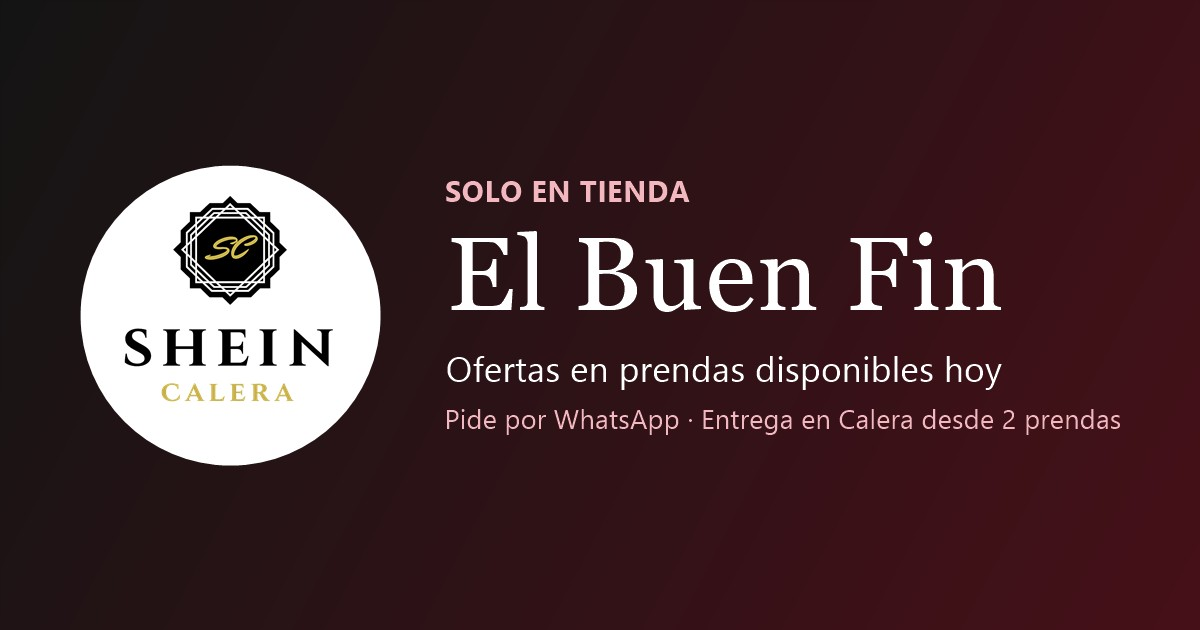
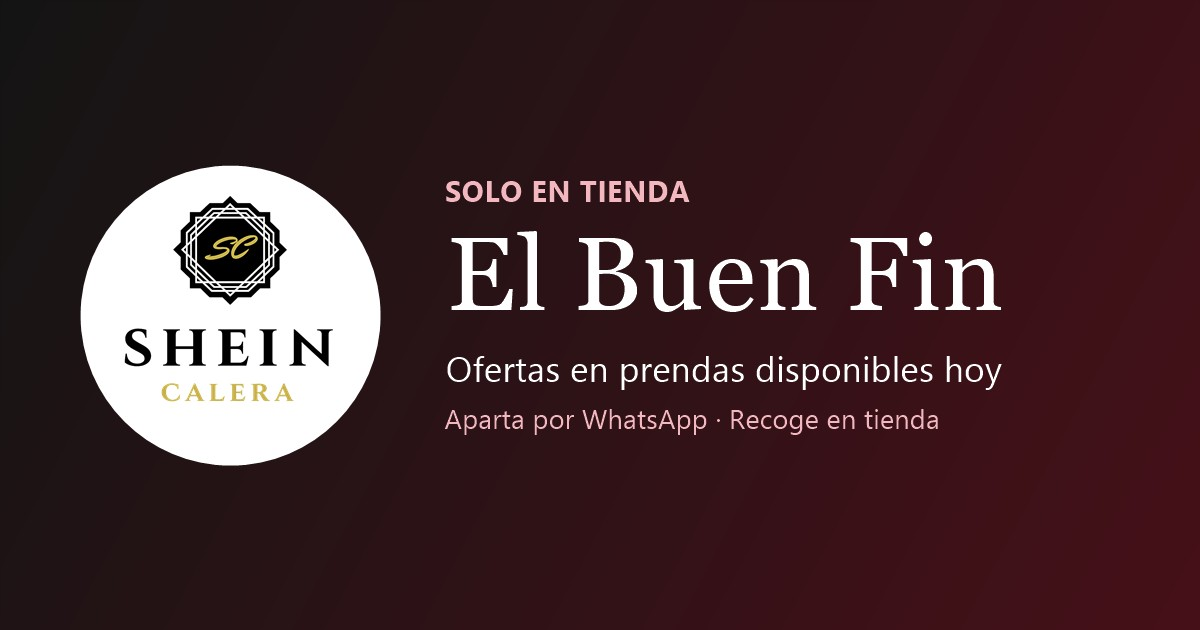
Catálogo 2026-11-13 18:05 (3 archivo(s))

Changed region(s): [[0.37, 0.6333, 0.925, 0.6937]]

diff --git a/index.html b/index.html
@@ -4,7 +4,7 @@
   <meta charset="utf-8">
   <meta name="viewport" content="width=device-width, initial-scale=1, viewport-fit=cover">
   <title>Buen Fin · Ofertas en tienda</title>
-  <meta name="description" content="Ofertas de El Buen Fin en prendas disponibles hoy. Aparta por WhatsApp y recoge en tienda, o recibe en Calera de Víctor Rosales a partir de 2 prendas.">
+  <meta name="description" content="Ofertas de El Buen Fin en prendas disponibles hoy. Aparta por WhatsApp y recoge en tienda.">
   <meta name="theme-color" content="#141414">
 
   <!-- Vista previa al compartir en WhatsApp / Facebook / Instagram. Los rastreadores de las redes
@@ -13,7 +13,7 @@
   <meta property="og:url" content="https://cezar191.github.io/ofertas/">
   <meta property="og:type" content="website">
   <meta property="og:title" content="El Buen Fin · Ofertas en tienda">
-  <meta property="og:description" content="Mira las prendas disponibles y sus ofertas. Pide por WhatsApp. Sin envíos: entrega en tienda o en Calera desde 2 prendas.">
+  <meta property="og:description" content="Mira las prendas disponibles y sus ofertas. Aparta por WhatsApp y recoge en tienda.">
   <meta property="og:image" content="https://cezar191.github.io/ofertas/assets/og.jpg">
   <meta property="og:image:width" content="1200">
   <meta property="og:image:height" content="630">
@@ -81,15 +81,15 @@
     <section class="perks wrap" aria-label="Cómo comprar">
       <div class="perk">
         <svg viewBox="0 0 24 24" aria-hidden="true"><use href="#i-store"/></svg>
-        <div><b>Sin envíos</b><span>Entrega en tienda</span></div>
-      </div>
-      <div class="perk">
-        <svg viewBox="0 0 24 24" aria-hidden="true"><use href="#i-pin"/></svg>
-        <div><b>Entrega en <span data-bind="delivery.area">Calera</span></b><span>a partir de <span data-bind="delivery.min_pieces">2</span> prendas</span></div>
+        <div><b>Solo en tienda física</b><span>Sin envíos ni entregas a domicilio</span></div>
       </div>
       <div class="perk">
         <svg viewBox="0 0 24 24" aria-hidden="true"><use href="#i-wa"/></svg>
         <div><b>Aparta por WhatsApp</b><span>Elige talla y mándanos mensaje</span></div>
+      </div>
+      <div class="perk">
+        <svg viewBox="0 0 24 24" aria-hidden="true"><use href="#i-pin"/></svg>
+        <div><b>Recoge en tienda</b><span data-bind="store.hours">Te esperamos</span></div>
       </div>
     </section>
 
@@ -145,9 +145,9 @@
         <ol class="steps">
           <li><b>Elige</b><span>Toca la prenda y escoge tu talla.</span></li>
           <li><b>Escríbenos</b><span>Mándanos tu bolsa por WhatsApp. Te confirmamos existencia.</span></li>
-          <li><b>Recoge</b><span>En tienda, o te la llevamos en <span data-bind="delivery.area">Calera</span> si son <span data-bind="delivery.min_pieces">2</span> prendas o más.</span></li>
+          <li><b>Recoge</b><span>Pasa por tus prendas a la tienda.</span></li>
         </ol>
-        <p class="fine">No hacemos envíos por paquetería. Precios y existencias se actualizan durante el día; la prenda se aparta cuando te confirmamos por WhatsApp.</p>
+        <p class="fine">Venta solo en tienda física: no hacemos envíos ni entregas a domicilio. Precios y existencias se actualizan durante el día; la prenda se aparta cuando te confirmamos por WhatsApp.</p>
       </div>
     </section>
   </main>
@@ -206,10 +206,8 @@
       </div>
       <div class="bag-items" id="bagItems"></div>
       <div class="bag-foot">
-        <div class="bag-delivery" id="bagDelivery"></div>
         <div class="bag-total"><span>Total</span><b id="bagTotal">$0</b></div>
-        <label class="bag-option"><input type="radio" name="entrega" value="tienda" checked> Recojo en tienda</label>
-        <label class="bag-option" id="optDomicilio"><input type="radio" name="entrega" value="domicilio"> Entrega en <span data-bind="delivery.area">Calera</span></label>
+        <div class="bag-delivery ok">Recoges tus prendas en tienda. No hacemos envíos.</div>
         <a class="btn btn-wa btn-block" id="bagSend" target="_blank" rel="noopener">
           <svg viewBox="0 0 24 24" aria-hidden="true"><use href="#i-wa"/></svg> Enviar pedido por WhatsApp
         </a>

diff --git a/app.js b/app.js
@@ -472,30 +472,17 @@
     var total = items.reduce(function (s, x) { return s + x.p.price; }, 0);
     $("bagTotal").textContent = money(total);
 
-    var min = state.data.delivery.min_pieces || 2, area = state.data.delivery.area || "";
-    var ok = n >= min;
-    var dv = $("bagDelivery");
-    dv.className = "bag-delivery" + (ok ? " ok" : "");
-    dv.textContent = ok
-      ? "✓ Puedes recibir tu pedido en " + area + "."
-      : (n === 0 ? "Entrega en " + area + " a partir de " + min + " prendas. No hacemos envíos."
-        : "Agrega " + (min - n) + " prenda" + (min - n > 1 ? "s" : "") + " más para entrega en " + area + ", o recógela en tienda.");
-    var dom = document.querySelector('input[name="entrega"][value="domicilio"]');
-    dom.disabled = !ok;
-    $("optDomicilio").classList.toggle("disabled", !ok);
-    if (!ok && dom.checked) document.querySelector('input[name="entrega"][value="tienda"]').checked = true;
-
     updateBagWa(items, total);
   }
 
   function updateBagWa(items, total) {
     var a = $("bagSend");
     if (!items.length) { a.removeAttribute("href"); a.setAttribute("aria-disabled", "true"); a.style.opacity = ".5"; return; }
-    var entrega = document.querySelector('input[name="entrega"]:checked').value;
+    // Solo tienda física: no hay opción de entrega a domicilio.
     var msg = "¡Hola! Quiero apartar estas prendas:\n" +
       items.map(function (x) { return itemLine(x.p, x.i.size); }).join("\n") +
       "\n\nTotal: " + money(total) +
-      "\nEntrega: " + (entrega === "domicilio" ? "en " + state.data.delivery.area + " (mi dirección es: )" : "recojo en tienda");
+      "\nLas recojo en tienda.";
     var link = waLink(msg);
     if (link) { a.href = link; a.removeAttribute("aria-disabled"); a.style.opacity = ""; }
   }
@@ -505,6 +492,5 @@
     state.bag.splice(+b.getAttribute("data-idx"), 1);
     saveBag(); renderBag();
   });
-  document.querySelectorAll('input[name="entrega"]').forEach(function (r) { r.addEventListener("change", renderBag); });
   $("openBag").addEventListener("click", function () { renderBag(); $("bagDrawer").showModal(); });
 })();
